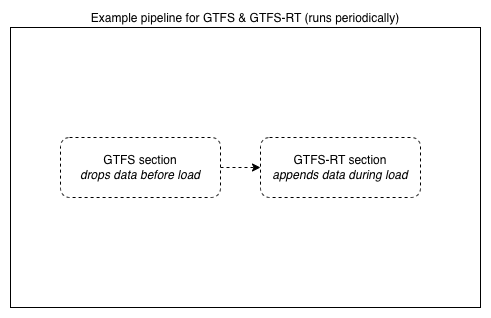
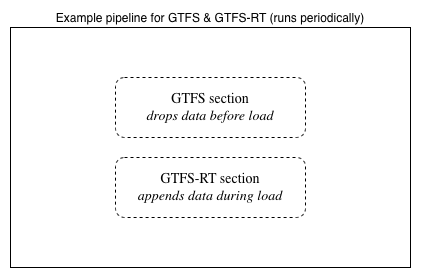
changed example pipeline visualization

diff --git a/rfc/0006-gtfs-rt-support/README.md b/rfc/0006-gtfs-rt-support/README.md
@@ -55,8 +55,6 @@ This concept results in following pipeline.
 
 ![Example pipeline for GTFS and GTFS-RT](./gtfs-and-gtfs-rt-pipeline.png)
 
-The thought on connecting them sequentially is, that once we want to logically validate the data model during load, we have the dependency to first load the static data and afterwards the realtime data because realtime depends on static. We just want to load realtime data to the sink, if the data is conform to the static data which was loaded in advance. Unfortunally state now we cannot model this sequential dependency in one pipeline(eg. by connecting the GTFS-sink with the GTFS-RT-Extractor) but to shed light on this the dependcy is already visualized in this figure..
-
 ## Block Types
 ### 1) GtfsRTInterpreter *(Requires implementation from scratch)*
 Input: File, Output: Sheet
@@ -80,3 +78,6 @@ The proposed concept is functional, but it could be more efficient if it would n
 
 ## Alternatives
 An alternative approach could involve using a generic block type called `JsonInterpreter` instead of the proposed `GtfsRTInterpreter`. This block type would parse incoming files into a new io-datatype called `JSON`. A downstream block type `JsonFlattener` would then flatten the `JSON`  into a tabular sheet representation (eg. by having a file map to some form of tree structure for JSON which maps to sheets). Since the flattening of generic JSON files into tabular representation is a fundamental topic for ETL systems, this approach should be discussed in a separate RFC as it falls outside the scope of the master thesis.
+
+## Outlook
+Once we want to logically validate the data model during load, we have the dependency to first load the static data and afterwards the realtime data because realtime depends on static. We just want to load realtime data to the sink, if the data is conform to the static data which was loaded in advance. Unfortunally state now we cannot model this sequential dependency in one pipeline(eg. by connecting the GTFS-sink with the GTFS-RT-Extractor) but to shed light on this the dependcy this is mentioned as an outlook.
